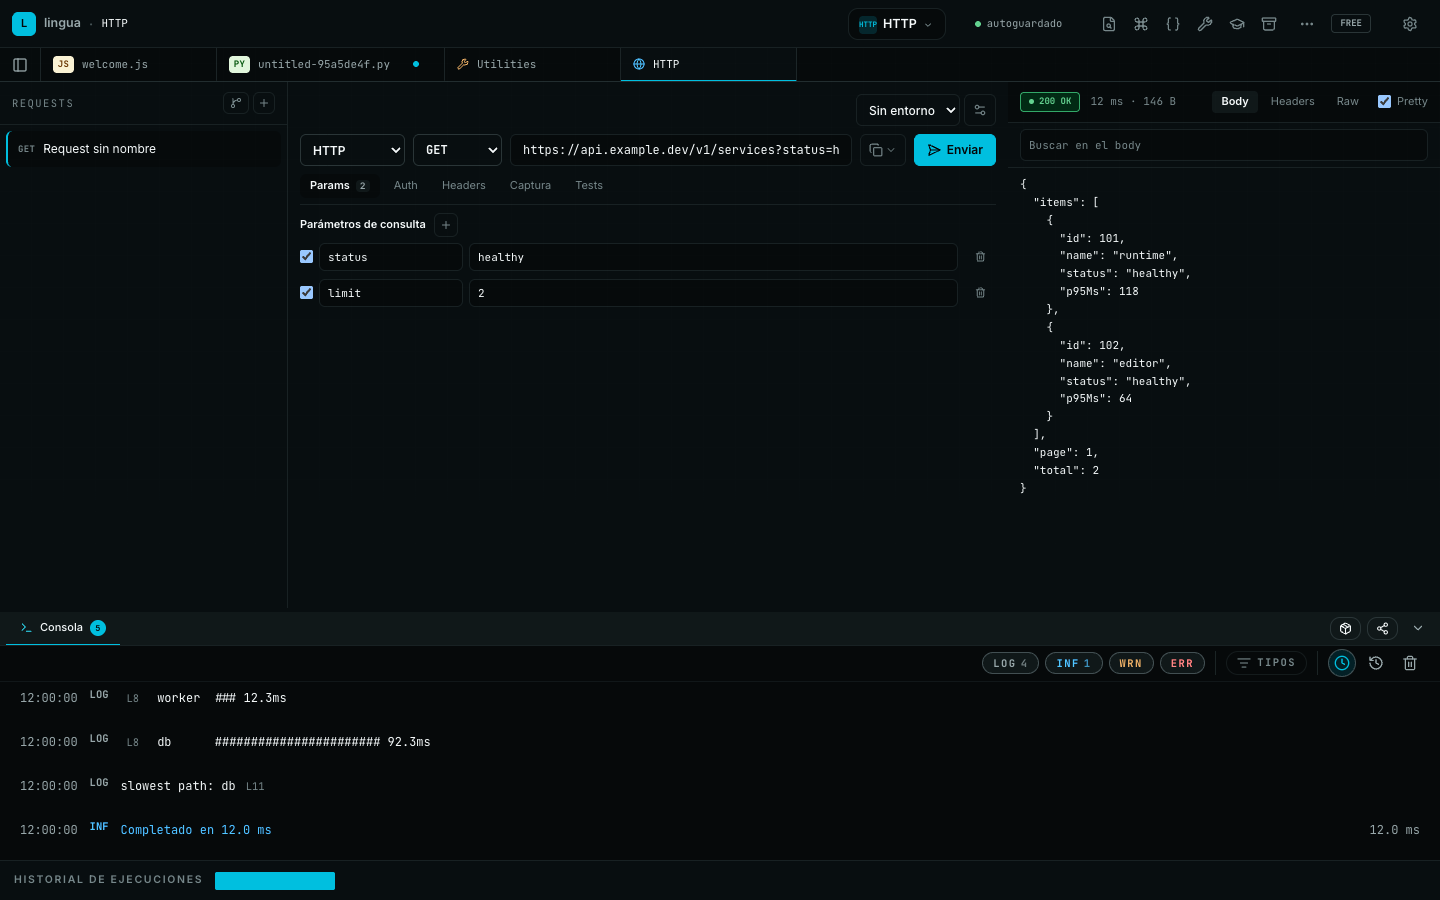
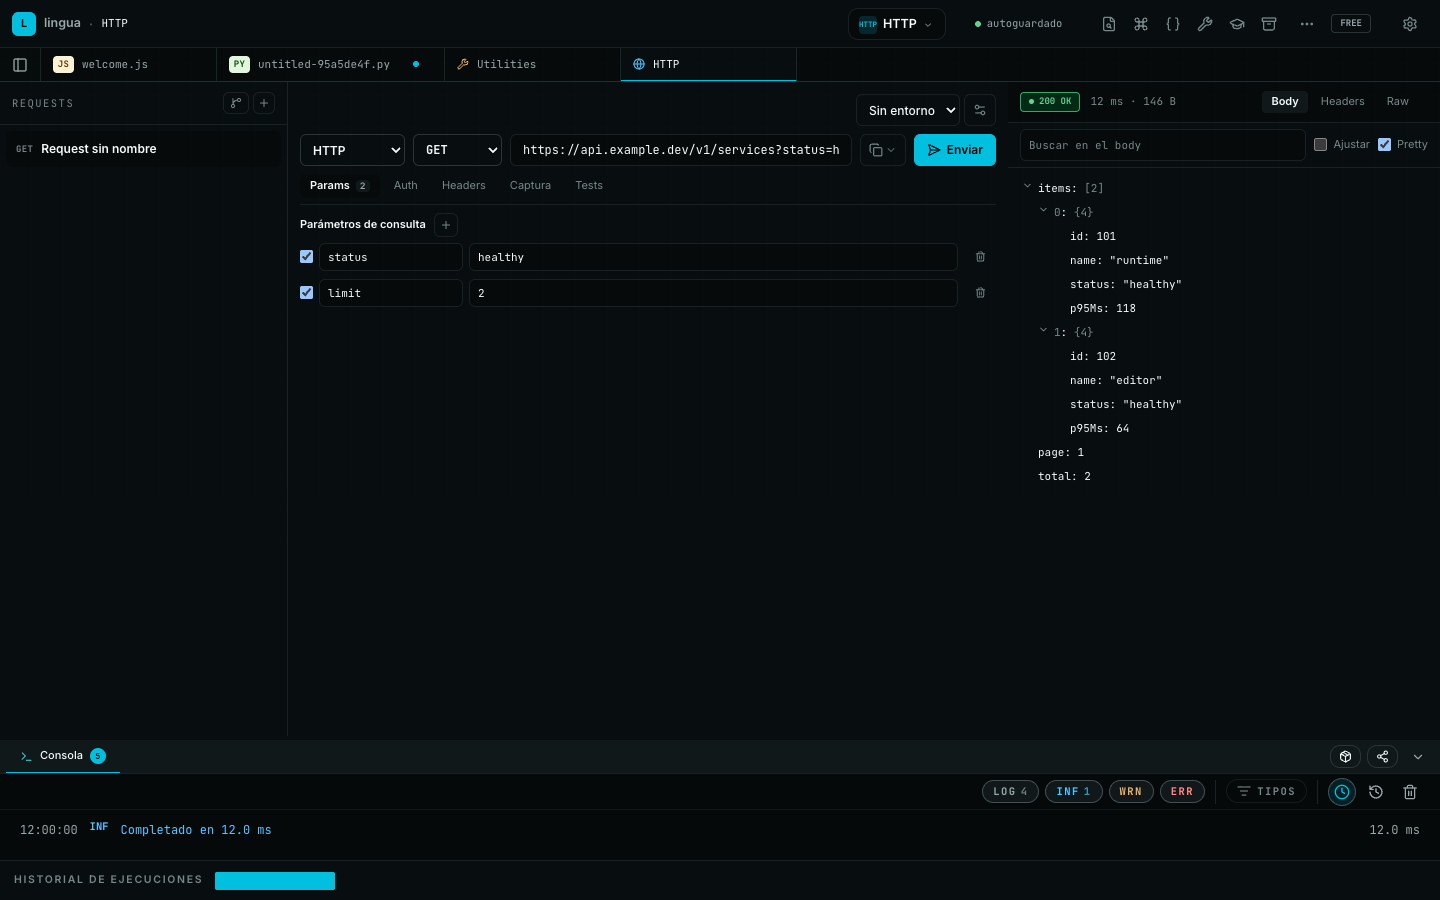
docs(http): describe the HTTP builder hint, variable highlighting and JSON tree
- USAGE gains an HTTP workspace section and the run shortcut notes the valid URL
- CHANGELOG, TESTING case 137, the renderer README and the website tour image and copy follow the tree
- Phase captures in EN and ES, dark and light, and a short window with the dock open

diff --git a/website/src/i18n/es.ts b/website/src/i18n/es.ts
@@ -234,9 +234,9 @@ export const es = {
         },
         {
           image: '/screenshots/tour/http-workspace-es.png',
-          alt: 'Workspace HTTP mostrando una request GET con query params y una respuesta JSON 200 OK formateada',
+          alt: 'Workspace HTTP mostrando una request GET con query params y una respuesta JSON 200 OK como árbol plegable',
           title: 'Un cliente HTTP sin el impuesto de la pestaña del navegador',
-          body: 'Requests, query params, auth, environments y captura de respuestas viven en un solo tab de workspace. Envía y lee el body formateado con status, timing y tamaño ahí donde codeas.',
+          body: 'Requests, query params, auth, environments y captura de respuestas viven en un solo tab de workspace. Envía y luego pliega, busca y captura valores del body JSON, con status, timing y tamaño ahí donde codeas.',
         },
         {
           image: '/screenshots/tour/settings-privacy-es.png',

diff --git a/website/src/i18n/en.ts b/website/src/i18n/en.ts
@@ -234,9 +234,9 @@ export const en = {
         },
         {
           image: '/screenshots/tour/http-workspace.png',
-          alt: 'HTTP workspace showing a GET request with query params and a pretty-printed 200 OK JSON response',
+          alt: 'HTTP workspace showing a GET request with query params and a 200 OK JSON response as a foldable tree',
           title: 'An HTTP client without the browser-tab tax',
-          body: 'Requests, query params, auth, environments, and response capture live in one workspace tab. Send and read the pretty-printed body with status, timing, and size right where you code.',
+          body: 'Requests, query params, auth, environments, and response capture live in one workspace tab. Send, then fold, search and capture values from the JSON body, with status, timing, and size right where you code.',
         },
         {
           image: '/screenshots/tour/settings-privacy.png',

diff --git a/docs/USAGE.md b/docs/USAGE.md
@@ -39,7 +39,7 @@ The overlay lists every other global default binding (run history, capsules, uti
 
 The run controls sit in the 48 px command bar. **Undock** in its More actions menu turns them into a draggable pill, and **Dock** in the pill's menu puts them back. Hiding the results dock folds it to its tab row; any tab, or `Cmd/Ctrl+\`, opens it again.
 
-On workspace tabs the command bar keeps only the workspace chip, because the run action lives in the tab: `Cmd/Ctrl+Enter` and the tab's own Send or Run button act on that workspace instead of a language runner. The HTTP workspace sends the active request, the SQL workspace runs the statement under the cursor of the active query, and Developer Utilities applies the selected utility to its input. Inside Settings, `Cmd/Ctrl+,` focuses the settings filter instead of closing the dialog, and `Cmd/Ctrl+1`–`9` then `0` open the tabs in rail order: General 1, Appearance 2, Editor 3, Languages 4, Environment 5, Privacy 6, Account 7, Integrations 8, Shortcuts 9 and Recovery 0 (Plugins and Labs have no number). A tab with several sections shows chips under the search bar that jump to a section and follow the scroll.
+On workspace tabs the command bar keeps only the workspace chip, because the run action lives in the tab: `Cmd/Ctrl+Enter` and the tab's own Send or Run button act on that workspace instead of a language runner. The HTTP workspace sends the active request once its URL is valid, the SQL workspace runs the statement under the cursor of the active query, and Developer Utilities applies the selected utility to its input. Inside Settings, `Cmd/Ctrl+,` focuses the settings filter instead of closing the dialog, and `Cmd/Ctrl+1`–`9` then `0` open the tabs in rail order: General 1, Appearance 2, Editor 3, Languages 4, Environment 5, Privacy 6, Account 7, Integrations 8, Shortcuts 9 and Recovery 0 (Plugins and Labs have no number). A tab with several sections shows chips under the search bar that jump to a section and follow the scroll.
 
 Go to Symbol reads the active JavaScript or TypeScript file's declaration tree and lists functions, classes, methods, and other named declarations in source order. Other languages currently show the unsupported state instead of a partial outline.
 
@@ -225,6 +225,14 @@ The plugin model is intentionally manifest-only. There is no facility to load ar
 - A table opened from the Explorer links its foreign-key cells (single-column keys DuckDB declares): clicking one opens the referenced row in that table, with **back to** the table you came from. The value viewer of a row lists **Referenced by** with how many rows of each table point at it, and a click opens them.
 - The column rail on the right of the table summarizes each column from the loaded rows, never a second query: null share, distinct count (10,000+ past that), range, and a histogram for numbers and dates or the most frequent values for text. A very wide result is summarized from its first rows, and the header says how many. Clicking a value or a bar (Shift-click extends a bar range) inserts `col = value` or `col BETWEEN low AND high` at the editor cursor, after WHERE or AND. The rail button in the toolbar hides it for the session.
 - **Export full result…** writes CSV, TSV, JSON, NDJSON, Markdown, SQL INSERT, XLSX or Parquet, with header row, delimiter and NULL-as-empty options where they apply. When the result came from one read statement and DuckDB had more rows than the grid loaded, **Full result** runs the query again with the grid's conditions, sort and columns (not Filter rows…) and writes every row: DuckDB writes CSV, TSV, JSON, NDJSON and Parquet itself, and Markdown, SQL INSERT and XLSX are read through the result stream, up to one million rows, five million cells or 512 MB (an XLSX sheet holds 1,048,575); a capped export says how many rows it holds. The dialog shows the rows read so far and **Cancel** stops the query. **Loaded rows** writes what the grid holds. Parquet always comes from the query, so it needs one read statement or a table opened from the Explorer. **Copy to clipboard** takes the text formats of the loaded rows, up to 10,000. Its Local hand-offs: **Save as table** re-runs a single read query as `CREATE TABLE … AS` (on a connection's result this row is **Copy to Local as table**, see Database connections), **Send to Python tab** opens a Python tab with up to 1,000 rows as dicts (an ordinary tab: it counts toward the Free tab limit and is kept with your session), and **Save as run capsule** copies the run's capsule, like `Cmd/Ctrl+Shift+X`.
+
+## HTTP workspace
+
+- The URL field highlights each `{{variable}}`: in the accent colour when the active environment defines it, in red when it does not. Send, `Cmd/Ctrl+Enter` and toolbar Run stay off until the URL, with its variables filled in, is a full `http://` or `https://` URL (`ws://` or `wss://` for WebSocket); the hint under the URL says what is missing.
+- The Auth tab shows the scheme in use (Bearer, Basic or API key); the other tabs count their enabled rows.
+- A JSON response opens as a tree with one value per line. Click a node's arrow to fold it. Documents over 1,000 values open with only the top level unfolded, long arrays show 200 items at a time, and strings over 120 characters are cut with a control that shows the full value. **Wrap** is off by default, so a long value scrolls instead of breaking the indentation. Turn **Pretty** off to read the raw body.
+- Search matches keys and values, highlights them, and unfolds the nodes that hold a match.
+- Hovering a value offers **Capture**, which adds a capture rule for that path to the request and opens the Capture tab. A value that a rule already captures shows `captured → name`.
 
 ## Database connections (Labs)
 

diff --git a/CHANGELOG.md b/CHANGELOG.md
@@ -15,8 +15,11 @@ The format follows Keep a Changelog and groups changes by release.
 - Copy to Local as table, in Export full result…, turns a connection's result into a Local DuckDB table to join it there with Local data or another connection's copy. It reads the whole result again (or the whole table opened from the Explorer) up to the full export's limits, with progress and Cancel, keeps column types where DuckDB has them, stops on a value its type cannot hold, and leaves no table when cancelled or failed. The Local Explorer shows which connection a copied table came from and when.
 - Database connections reach Turso (libSQL), Neon and Cloudflare D1 over HTTPS. Turso takes the libsql:// URL with its token, or a local server without one; Neon runs on its HTTPS API, so it works where port 5432 is blocked; D1 connects through Cloudflare's API with an account, a database id and a token. In the browser, Turso and Neon open for the tab only and keep the token in memory, never stored; D1 and the other engines still need the desktop app. Turso and Neon keep read-only on the server and take staged edits in one transaction; a read-only D1 connection runs one SELECT, WITH or VALUES statement at a time, and D1 tables stay read-only.
 - Database connections reach SQL Server and ClickHouse. SQL Server takes sqlserver:// or mssql:// URLs, shows its estimated plan for Explain and keeps read-only runs in a transaction that is always rolled back; ClickHouse runs over its HTTP interface with read-only enforced by the server. Both work through SSH tunnels, list their objects in the Explorer and come in through imports; staged edits work on SQL Server, and ClickHouse tables stay read-only.
+- An HTTP response in JSON opens as a tree with one value per line: fold any node, see each object's and array's size, expand cut-off long strings, and search keys and values with the matching nodes unfolded. Hovering a value offers Capture, which adds a capture rule for its path, and values a rule already captures say so.
 
 ### Changed
+- HTTP Send explains why it is off: a hint under the URL says to enter a URL, to give a missing variable a value, or to use a full URL with its scheme, and Send, Cmd/Ctrl+Enter and toolbar Run wait until the URL is valid once its variables are filled in. The URL highlights each {{variable}}, red when the active environment lacks it, its placeholder reads as a placeholder, and the Auth tab shows the scheme in use.
+- The HTTP request list and response history mark the selected row with its background and weight instead of a coloured strip on its left edge.
 - The interface now ships the Inter font it always declared, so text no longer falls back to the system font, including offline.
 - Appearance offers Dark, Light and System. System follows the operating system's light or dark setting, and each card's preview uses that theme's real shell and editor colours.
 - Buttons share one set of states: a small lift on hover, a pressed state, a two-pixel focus ring in the control's colour, and the same faded look when disabled. Run and the main action on each surface use the accent colour; destructive buttons stay red text until a confirmation asks for them. Settings switches are smaller (36 by 20 pixels).
@@ -52,6 +55,7 @@ The format follows Keep a Changelog and groups changes by release.
 - Import data can add a file's rows to an existing table, mapping each column onto one of its columns or skipping it, and a CSV chooses its header row and delimiter. The rows go in one transaction, so a row that does not fit adds nothing.
 
 ### Fixed
+- Long values in an HTTP response body no longer wrap back to the first column and break the indentation: Wrap is off by default, and when it is on, a wrapped value stays at its own indent.
 - SQL results show LIST and STRUCT columns as arrays and objects instead of Arrow internals.
 - Run Ledger toggle, export and clear events now appear in Privacy › Recent activity; they were dropped before they reached the feed.
 - Language chips and labels in the light theme are readable (they were pale text on pale tints).

diff --git a/docs/TESTING.md b/docs/TESTING.md
@@ -367,6 +367,7 @@ Use this order when automating:
 | ✅ | `TC-134` | `ELEC` | `developer` | Save a Turso connection to a local libSQL server with TLS off and no token, test it and run a query; then fill a D1 connection with an account, database id and a wrong token and test it | The test lists resolve, policy, TCP, TLS skipped, auth and the libSQL version; the grid shows integers past 2^53 as text and blobs as base64; the D1 test resolves `api.cloudflare.com` and fails at auth |
 | ✅ | `TC-135` | `WEB` | `developer` | With Database connections on in the browser, open the picker, then New connection: paste a `libsql://…?authToken=…` URL, test it with a wrong token and the right one, open it for this tab and run a query; paste a Neon `postgresql://` string, open it and commit a staged edit | The picker lists the socket engines and D1 as DESKTOP ONLY; the sheet offers Turso and Neon only and says the token stays in the tab; the URL field drops the token; the wrong token fails at auth; queries and the edit run from the browser; reloading forgets the connections |
 | ✅ | `TC-136` | `WEB` `ELEC` | `developer` | Run a read query on a connection (a Turso tab connection on the web, Postgres on desktop), open Export full result…, Copy to Local as table and Create; open a Postgres table from the Explorer and copy it too; run an UPDATE on the connection and open the dialog again | The row reads Copy to Local as table with its hint on its own line; progress counts the rows and the notice says how many were copied; the Local Explorer lists the table with its row count (the whole table, not the 100-row preview) and the connection's name, the copy and the date in the tooltip; integers stay exact past 2^53 and bytes stay bytes; after the UPDATE the row keeps the Copy to Local title and says a single read query is needed |
+| ✅ | `TC-137` | `WEB` | `developer` | Open the HTTP workspace, create a request, type `{{base}}/users` with no environment, then a full URL to a JSON API; Send it, fold a node, search a value inside a folded node, hover a value and click Capture, then turn on Wrap | Send stays off with the hint naming what is missing and the token red; the response opens as a tree with sizes, the search count matches and unfolds the hidden node, Capture adds the rule, opens the Capture tab and marks the value `captured → name`; long values scroll until Wrap is on |
 | ✅ | `TC-124` | `ELEC` | `developer` | Run a query on a connection, open History, switch the query to Local, then save a query on each | History names the connection and lists only its runs; Local lists only its own; saved queries show their connection, RO for a read-only one; Format and completion follow the engine |
 | 🕒 | `TC-051` | `WEB` | `developer` | Open settings > updates | Unsupported web update message is shown and controls are disabled |
 | ✅ | `TC-052` | `ELEC` | `developer` | Open settings > updates | Desktop update state renders correctly |
